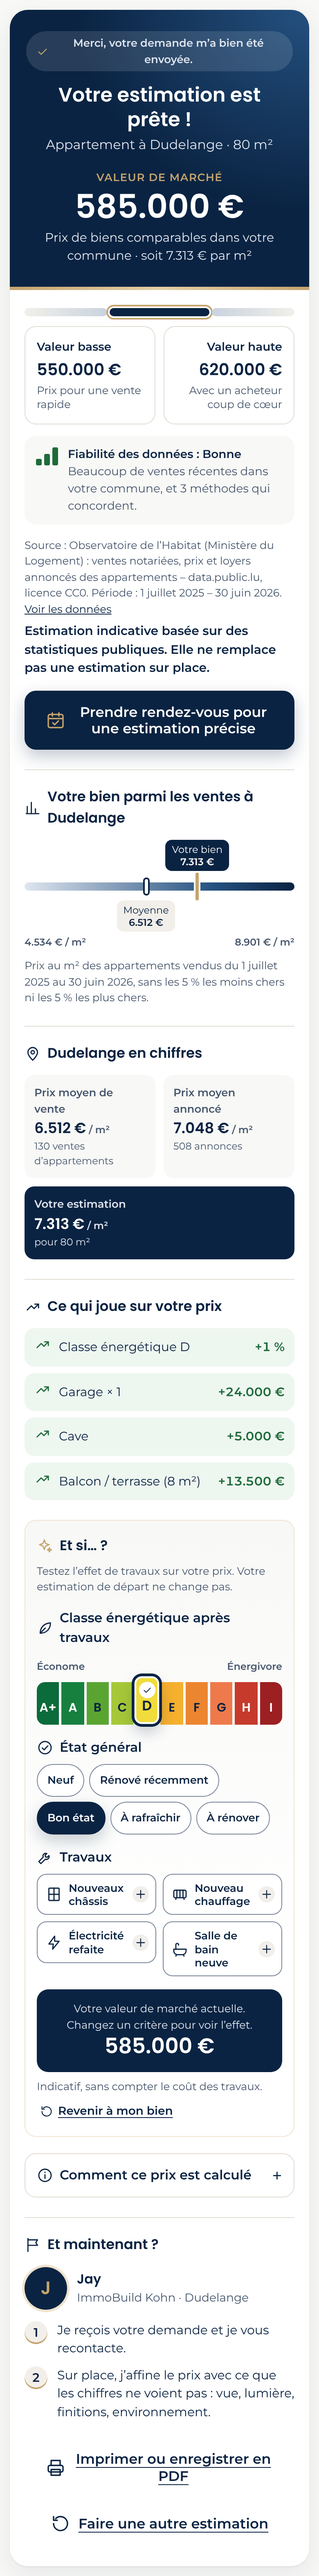
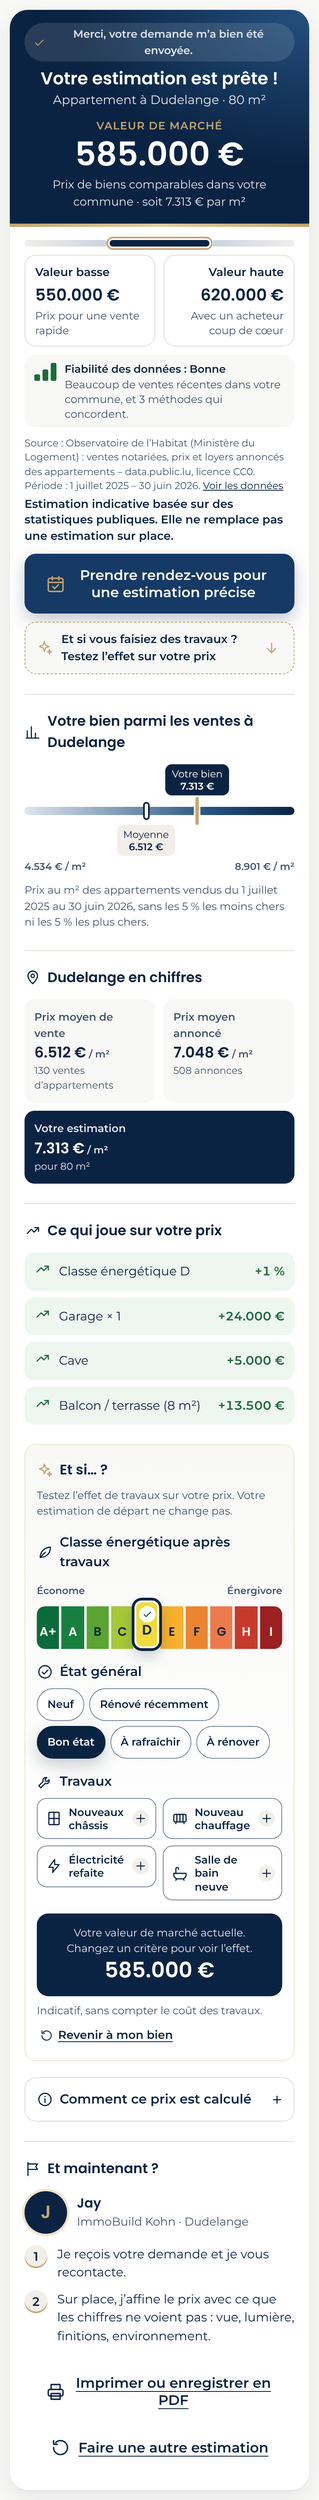
estimation-widget: rendez-vous visible dès le 1er écran, raccourci vers « Et si… ? »
- haut du résultat compacté : valeur, fourchette, fiabilité, source,
  phrase de prudence et bouton de rendez-vous tiennent sur un écran mobile
  (bas du bouton à 749 px pour 844 px)
- raccourci « Et si vous faisiez des travaux ? » sous le bouton ; dans le
  site, embed.js fait défiler la page jusqu'au simulateur
- code de l'analyse, du résultat et du simulateur chargé à part, en arrière-
  plan dès l'étape 4 : JS de départ 24,8 → 22,3 Ko compressés
- 45 tests, 0 erreur axe-core, Lighthouse mobile local 100/100/100

Claude-Session: https://claude.ai/code/session_01846hvutoHPqEEd264myZJw

Changed region(s): [[0.0308, 0.0, 0.9846, 0.9961]]

diff --git a/estimation-widget/src/styles.css b/estimation-widget/src/styles.css
@@ -314,16 +314,16 @@ input[type='text']:focus, input[type='email']:focus, input[type='tel']:focus, se
 .result { padding: 0 0 24px; }
 .result > :not(.result-hero) { margin-left: 18px; margin-right: 18px; }
 @media (min-width: 560px) { .result > :not(.result-hero) { margin-left: 36px; margin-right: 36px; } }
-.result-hero { background: radial-gradient(130% 120% at 100% 0%, var(--navy-3) 0%, var(--navy) 60%); color: var(--white); padding: 26px 20px 30px; text-align: center; position: relative; margin-bottom: 0; }
+.result-hero { background: radial-gradient(130% 120% at 100% 0%, var(--navy-3) 0%, var(--navy) 60%); color: var(--white); padding: 16px 18px 20px; text-align: center; position: relative; margin-bottom: 0; }
 .result-hero::after { content: ''; position: absolute; left: 0; right: 0; bottom: 0; height: 4px; background: linear-gradient(90deg, var(--gold), #e3cfa6 50%, var(--gold)); }
-.sent-note { display: inline-flex; align-items: center; gap: 6px; margin: 0 0 14px; padding: 5px 12px; border-radius: 999px; background: rgba(255, 255, 255, 0.12); font-size: 0.8125rem; font-weight: 600; color: #dfe6ef; }
+.sent-note { display: inline-flex; align-items: center; gap: 6px; margin: 0 0 8px; padding: 4px 10px; border-radius: 999px; background: rgba(255, 255, 255, 0.12); font-size: 0.8125rem; font-weight: 600; color: #dfe6ef; }
 .sent-note .ico { color: var(--gold); }
-.result-hero .step-title { color: var(--white); font-size: 1.5rem; }
-.hero-meta { margin: 4px 0 18px; color: #dfe6ef; }
+.result-hero .step-title { color: var(--white); font-size: 1.3125rem; }
+.hero-meta { margin: 2px 0 10px; color: #dfe6ef; font-size: 0.9375rem; }
 .hero-label { margin: 0; color: var(--gold); font-weight: 600; letter-spacing: 0.06em; text-transform: uppercase; font-size: 0.8125rem; }
 .hero-amount { margin: 2px 0 4px; font-family: var(--font-title); font-weight: 600; font-size: 2.5rem; line-height: 1.15; font-variant-numeric: tabular-nums; }
 @media (min-width: 560px) { .hero-amount { font-size: 3.25rem; } }
-.hero-sub { margin: 0; color: #dfe6ef; font-size: 0.9375rem; }
+.hero-sub { margin: 0; color: #dfe6ef; font-size: 0.875rem; }
 .hero-badge { display: inline-grid; place-items: center; width: 56px; height: 56px; border-radius: 50%; background: var(--gold); color: var(--navy); margin-bottom: 12px; }
 .hero-badge .ico { width: 30px; height: 30px; }
 .result-hero.hero-nodata + * { margin-top: 20px; }
@@ -332,14 +332,14 @@ input[type='text']:focus, input[type='email']:focus, input[type='tel']:focus, se
 .indicative p { margin: 0; }
 .indicative-title { display: flex; align-items: center; gap: 8px; font-weight: 700; font-family: var(--font-title); text-transform: uppercase; letter-spacing: 0.04em; margin-bottom: 4px !important; }
 
-.range-block { margin-top: 22px !important; }
-.range-viz { display: grid; grid-template-columns: 1fr 1.2fr 1fr; gap: 3px; height: 10px; margin-bottom: 12px; }
+.range-block { margin-top: 16px !important; }
+.range-viz { display: grid; grid-template-columns: 1fr 1.2fr 1fr; gap: 3px; height: 8px; margin-bottom: 10px; }
 .range-viz span { border-radius: 5px; }
 .rv-low { background: linear-gradient(90deg, var(--beige), #c9d3df); }
 .rv-mid { background: var(--navy); box-shadow: 0 0 0 2px var(--white), 0 0 0 4px var(--gold); }
 .rv-high { background: linear-gradient(90deg, #c9d3df, var(--beige)); }
 .values { display: grid; grid-template-columns: 1fr 1fr; gap: 10px; }
-.value-card { border: 1.5px solid var(--line-soft); border-radius: var(--radius); padding: 14px; background: var(--white); }
+.value-card { border: 1.5px solid var(--line-soft); border-radius: var(--radius); padding: 10px 12px; background: var(--white); }
 .value-card p { margin: 0; }
 .value-high { text-align: right; }
 .value-label { font-weight: 600; font-size: 0.875rem; }
@@ -347,7 +347,7 @@ input[type='text']:focus, input[type='email']:focus, input[type='tel']:focus, se
 @media (min-width: 560px) { .value-amount { font-size: 1.5rem; } }
 .value-text { color: var(--muted); font-size: 0.8125rem; line-height: 1.35; }
 
-.reliability { display: flex; gap: 12px; align-items: flex-start; margin-top: 14px !important; padding: 12px 14px; border-radius: var(--radius); background: var(--offwhite); font-size: 0.875rem; }
+.reliability { display: flex; gap: 10px; align-items: flex-start; margin-top: 10px !important; padding: 8px 12px; border-radius: var(--radius); background: var(--offwhite); font-size: 0.8125rem; line-height: 1.4; }
 .reliability p { margin: 0; color: var(--muted); }
 .reliability strong { color: var(--navy); }
 .rel-bars { display: flex; gap: 3px; align-items: flex-end; height: 22px; margin-top: 2px; }
@@ -359,9 +359,9 @@ input[type='text']:focus, input[type='email']:focus, input[type='tel']:focus, se
 .rel-medium .rel-bars i:nth-child(-n + 2) { background: var(--navy); }
 .rel-low .rel-bars i:nth-child(1) { background: var(--down); }
 
-.source { font-size: 0.8125rem; color: var(--muted); margin-top: 16px !important; margin-bottom: 6px !important; }
+.source { font-size: 0.75rem; line-height: 1.45; color: var(--muted); margin-top: 10px !important; margin-bottom: 4px !important; }
 .source a { color: var(--navy); }
-.disclaimer { font-size: 0.9375rem; font-weight: 600; margin-top: 0 !important; margin-bottom: 16px !important; }
+.disclaimer { font-size: 0.875rem; line-height: 1.4; font-weight: 600; margin-top: 0 !important; margin-bottom: 12px !important; }
 .result > .btn { display: flex; width: auto; }
 .result .btn-secondary { margin-top: 10px !important; }
 
@@ -506,3 +506,9 @@ input[type='text']:focus, input[type='email']:focus, input[type='tel']:focus, se
 .whatif-foot { display: flex; flex-wrap: wrap; justify-content: space-between; align-items: center; gap: 4px 12px; margin-top: 8px; }
 .whatif-foot .small { margin: 0; }
 @media print { .whatif { display: none; } }
+
+.teaser { display: flex; align-items: center; gap: 10px; width: auto; margin-top: 10px !important; padding: 10px 14px; border: 1.5px dashed var(--gold); border-radius: 14px; background: var(--offwhite); color: var(--navy); font-weight: 600; font-size: 0.875rem; text-align: left; cursor: pointer; transition: background 0.15s; }
+.teaser:hover { background: var(--beige); }
+.teaser .ico:first-child { color: var(--gold); }
+.teaser .teaser-arrow { margin-left: auto; transform: rotate(-90deg); }
+@media print { .teaser { display: none; } }

diff --git a/estimation-widget/src/main.ts b/estimation-widget/src/main.ts
@@ -5,12 +5,11 @@ import config from '../config.json';
 import { deCanton, loadLang, pickLang, translator } from './i18n';
 import { COMMUNES } from './shared/communes';
 import { POSTES_APPARTEMENT, POSTES_MAISON, type PropertyType, type PublicResult } from './shared/types';
-import { analysisPlan, renderAnalysis, stepTexts } from './ui/analysis';
 import { checkFields, stepFields, type Errors } from './shared/validation';
 import { setupCombobox } from './ui/combobox';
 import { esc } from './ui/html';
 import { icon } from './ui/icons';
-import { formatEuro, renderResult } from './ui/result';
+import { formatEuro } from './ui/format';
 import { recapItems, renderStep, STEP_ICONS, type Values } from './ui/steps';
 
 const TOTAL = 6;
@@ -43,6 +42,21 @@ const state: {
 } = { step: 1, values: { ...DEFAULTS }, errors: {}, sending: false, serverError: null, result: null, direction: 'next' };
 
 const app = document.getElementById('app')!;
+
+/* ---------- Code de fin de parcours, chargé en arrière-plan ---------- */
+type Late = typeof import('./ui/late');
+let late: Late | null = null;
+let lateLoading: Promise<Late> | null = null;
+function loadLate(): Promise<Late> {
+  lateLoading ??= import('./ui/late').then((m) => (late = m));
+  return lateLoading;
+}
+function prefetchLate() {
+  if (late || lateLoading) return;
+  const go = () => void loadLate().catch(() => (lateLoading = null));
+  if ('requestIdleCallback' in window) requestIdleCallback(go, { timeout: 3000 });
+  else setTimeout(go, 500);
+}
 
 /* ---------- Hauteur automatique dans l'iframe ---------- */
 function post(msg: Record<string, unknown>) {
@@ -103,13 +117,15 @@ function recapBar(): string {
 
 function render(focus = true) {
   if (state.result) {
-    app.innerHTML = `<div class="card card-result anim-in">${renderResult(state.result, t, lang, { contactUrl, agent: config.agent, phone: config.phone, whatIf: whatIfBase() })}</div>`;
+    app.innerHTML = `<div class="card card-result anim-in">${late!.renderResult(state.result, t, lang, { contactUrl, agent: config.agent, phone: config.phone, whatIf: whatIfBase() })}</div>`;
     hydrate();
     countUp();
     after(focus);
     return;
   }
   const s = state.step;
+  // Dès l'étape 4, on prépare en arrière-plan le code de l'analyse et du résultat
+  if (s >= 4) prefetchLate();
   const errorCount = Object.keys(state.errors).length;
   const summary = state.serverError
     ? `<div class="alert" role="alert">${icon('info', 'ico ico-sm')}<span>${esc(state.serverError)}</span></div>`
@@ -358,6 +374,15 @@ app.addEventListener('click', (e) => {
   } else if (action === 'print') {
     app.querySelectorAll('details').forEach((d) => (d.open = true));
     window.print();
+  } else if (action === 'goto-whatif') {
+    const box = app.querySelector<HTMLElement>('.whatif');
+    if (box) {
+      const top = box.getBoundingClientRect().top + window.scrollY - 8;
+      // Dans l'iframe, c'est la page du site qui défile ; seule, la page de l'outil défile
+      if (window.parent !== window) post({ type: 'scrollTo', offset: Math.round(top) });
+      else window.scrollTo({ top, behavior: reducedMotion ? 'auto' : 'smooth' });
+      box.querySelector<HTMLInputElement>('input:checked, input')?.focus({ preventScroll: true });
+    }
   } else if (action === 'whatif-reset') {
     resetWhatIf();
   } else if (action === 'restart') {
@@ -529,6 +554,12 @@ async function send() {
 
   const type = (state.values.type as PropertyType) ?? 'appartement';
   const actx = { type, commune: String(state.values.commune ?? ''), surface: String(state.values.surface ?? ''), answers: answeredCount() };
+  try {
+    await loadLate();
+  } catch {
+    return stopAnalysis({ network: true });
+  }
+  const { analysisPlan, renderAnalysis, stepTexts } = late!;
   const plan = analysisPlan(config.analysis?.totalMs ?? 5600);
   const meta = `${t(`fields.typeOptions.${type}`)} · ${actx.surface} m² · ${actx.commune}`;
   app.innerHTML = `<div class="card card-analysis anim-in">${renderAnalysis(plan, t, meta)}</div>`;

diff --git a/estimation-widget/src/ui/result.ts b/estimation-widget/src/ui/result.ts
@@ -1,5 +1,8 @@
 /** Écran de résultat (fonction pure : renvoie du HTML, testée) */
 import { deCanton, LOCALES, type T } from '../i18n';
+import { formatEuro } from './format';
+
+export { formatEuro };
 import type { Lang, PublicFactor, PublicResult } from '../shared/types';
 import { esc } from './html';
 import { icon } from './icons';
@@ -11,10 +14,6 @@ export interface ResultOptions {
   phone?: string;
   /** réponses de départ, pour le simulateur « Et si… ? » */
   whatIf?: WhatIfBase;
-}
-
-export function formatEuro(v: number, lang: Lang): string {
-  return new Intl.NumberFormat(LOCALES[lang], { style: 'currency', currency: 'EUR', maximumFractionDigits: 0 }).format(v);
 }
 
 function formatDate(iso: string, lang: Lang): string {
@@ -165,6 +164,7 @@ export function renderResult(r: PublicResult, t: T, lang: Lang, opts: ResultOpti
   <p class="source">${esc(t('result.source', { source, periode }))} <a href="${esc(r.sourceUrl)}" target="_blank" rel="noopener">${esc(t('result.sourceLink'))}</a></p>
   <p class="disclaimer">${esc(t('result.disclaimer'))}</p>
   ${cta}${call}
+  ${r.simToken && o.whatIf ? `<button type="button" class="teaser" data-action="goto-whatif">${icon('neuf', 'ico ico-sm')}<span>${esc(t('whatif.teaser'))}</span><span class="teaser-arrow">${icon('fleche', 'ico ico-sm')}</span></button>` : ''}
   ${gauge}
   ${stats}
   ${factorsHtml}

diff --git a/estimation-widget/public/embed.js b/estimation-widget/public/embed.js
@@ -56,6 +56,9 @@
       if (f.contentWindow !== e.source) continue;
       if (e.data.type === 'height' && typeof e.data.height === 'number' && e.data.height > 0 && e.data.height < 20000) {
         f.style.height = Math.ceil(e.data.height) + 2 + 'px';
+      } else if (e.data.type === 'scrollTo' && typeof e.data.offset === 'number') {
+        var y = window.scrollY + f.getBoundingClientRect().top + Math.max(0, Math.min(e.data.offset, 20000));
+        window.scrollTo({ top: y, behavior: 'smooth' });
       } else if (e.data.type === 'scroll') {
         var top = f.getBoundingClientRect().top;
         if (top < 0 || top > window.innerHeight * 0.6) f.scrollIntoView({ behavior: 'smooth', block: 'start' });

diff --git a/estimation-widget/src/ui/late.ts b/estimation-widget/src/ui/late.ts
@@ -1,0 +1,6 @@
+/**
+ * Code utile seulement à la fin du parcours (écran d'analyse, résultat, simulateur).
+ * Chargé à part, en arrière-plan pendant que le visiteur remplit les dernières étapes.
+ */
+export { analysisPlan, renderAnalysis, stepTexts } from './analysis';
+export { renderResult } from './result';

diff --git a/estimation-widget/src/ui/format.ts b/estimation-widget/src/ui/format.ts
@@ -1,0 +1,6 @@
+import { LOCALES } from '../i18n';
+import type { Lang } from '../shared/types';
+
+export function formatEuro(v: number, lang: Lang): string {
+  return new Intl.NumberFormat(LOCALES[lang], { style: 'currency', currency: 'EUR', maximumFractionDigits: 0 }).format(v);
+}
